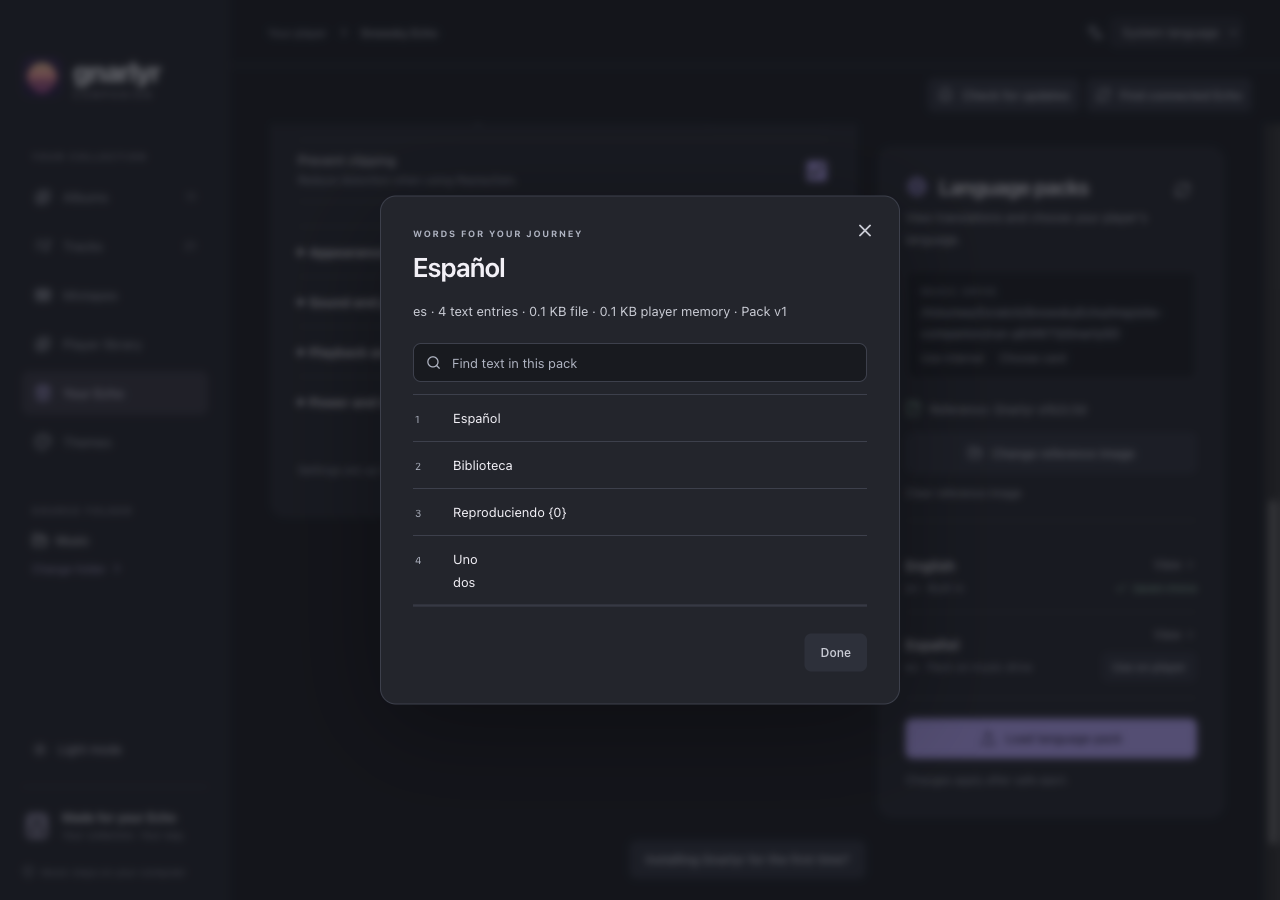
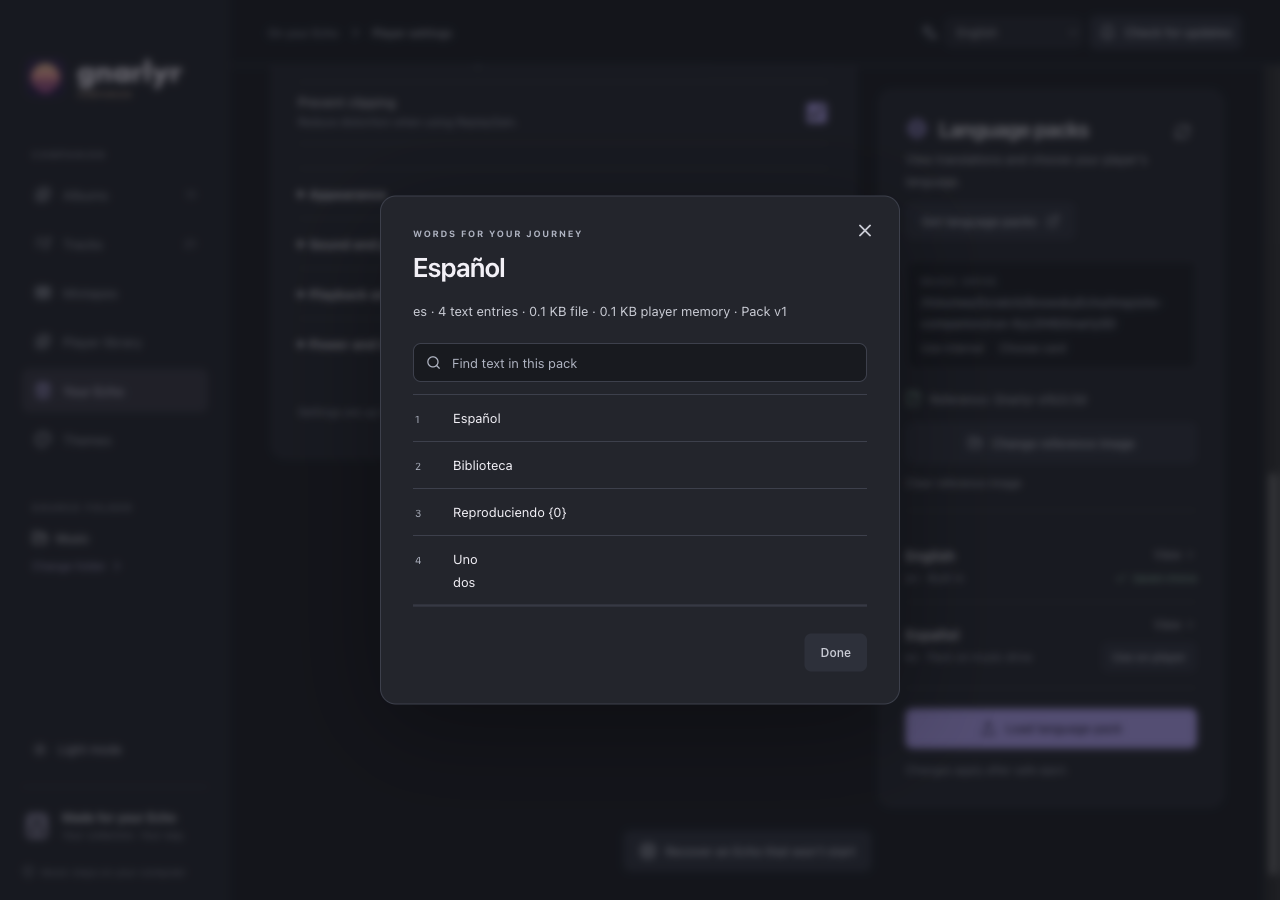
docs(site): refresh merged Companion layouts and language screenshots

diff --git a/site/companion.html b/site/companion.html
@@ -21,14 +21,14 @@
 <nav aria-label="Main navigation"><a href="firmware.html">Features</a><a href="docs.html">Docs</a><a href="hardware.html">Hardware</a><a href="companion.html" aria-current="page">Companion</a><a href="install.html" class="nav-cta">Install</a></nav>
 </header><main id="main"><section class="companion-hero wrap"><div class="page-intro"><p class="eyebrow">Gnarlyr Companion · desktop beta</p><h1 class="page-title">Your music.<br>A bigger view.</h1><p>Browse the albums on your computer, build a mixtape, and set up your ECHO.</p><div class="actions"><a class="button" href="#library">Explore the companion ↓</a><a class="text-link" href="#get">About the beta →</a></div><p class="companion-caption">Beta preview with sample music and a demonstration player.</p></div><figure class="desktop-figure"><a class="desktop-shot" href="assets/companion/library-dark.png" aria-label="Open Gnarlyr Companion album library in dark mode at full size"><img src="assets/companion/library-dark.png" width="1280" height="900" loading="eager" decoding="async" alt="Gnarlyr Companion album library in dark mode"></a><figcaption>Browse albums and keep a selection ready · select image to enlarge</figcaption></figure></section><div class="doc-layout wrap"><nav class="contents" aria-label="On this page"><p class="eyebrow">In the companion</p><ol><li><a href="#library">Music library</a></li><li><a href="#plan">Copy music</a></li><li><a href="#player-library">Player library</a></li><li><a href="#mixtapes">Mixtapes &amp; cassettes</a></li><li><a href="#player">Player care</a></li><li><a href="#first-install">First installation</a></li><li><a href="#updates">Release notices</a></li><li><a href="#recovery">Recovery</a></li><li><a href="#themes">Theme packs</a></li><li><a href="#app-language">App language</a></li><li><a href="#languages">Player language packs</a></li><li><a href="#appearance">Light &amp; dark</a></li><li><a href="#get">About the beta</a></li></ol></nav><div><section class="doc-section" id="library" aria-labelledby="library-title"><h2 id="library-title">Pick what comes with you.</h2><p class="intro">Choose a music folder and browse it as albums or tracks. Your files stay in their original folders.</p><div class="feature-list companion-features"><article class="feature"><h3>Find an album</h3><p>Search by album, artist, or song. Artwork comes from your music; albums without a cover get an initials design.</p></article><article class="feature"><h3>Keep a selection</h3><p>Choose individual albums or select your search results. Reopening restores your saved library and selections; Refresh checks for changed music.</p></article><article class="feature"><h3>Stay local</h3><p>Browse the music you own, offline. Review a copy to the player’s music drive, or use your computer’s file manager.</p></article></div></section>
 <section class="doc-section" id="library-scans" aria-labelledby="library-scans-title"><h2 id="library-scans-title">Come back to a ready library.</h2><p class="intro">The companion keeps a local catalogue so it can reopen your albums without reading every music file again.</p><p>Refresh scans in the background, shows progress, and reuses metadata for unchanged tracks. Cancel scan stops the refresh and leaves the previous library available. Your music folders stay unchanged.</p></section><section class="doc-section" id="plan" aria-labelledby="plan-title"><h2 id="plan-title">Review the music. Then copy it.</h2><p class="intro">Choose albums, select Review copy, and choose the destination music drive. The review shows missing tracks, files already there, conflicts, and the space needed.</p><figure class="desktop-figure"><a class="desktop-shot" href="assets/companion/sync-preview.png" aria-label="Open Gnarlyr Companion copy review listing selected tracks at full size"><img src="assets/companion/sync-preview.png" width="1280" height="900" loading="lazy" decoding="async" alt="Gnarlyr Companion copy review listing selected tracks"></a><figcaption>Review the selected music and required space · select image to enlarge</figcaption></figure><ul class="detail-list"><li><strong>See what is new.</strong> Review tracks to add, files already there, and the space needed.</li><li><strong>Spot conflicts.</strong> Changed files and conflicting destination paths appear in the plan.</li><li><strong>Copy and verify.</strong> Confirm the track count to copy missing files in the background. Each completed file is read back and checked. Existing files stay untouched.</li></ul><p>Cancel keeps completed, verified files. Choose Review copy again to finish the remaining tracks. A disconnected drive or changed selection needs a fresh review; conflicting files are left for you to resolve. Safely eject every player drive after copying.</p></section>
-<section class="doc-section" id="player-library" aria-labelledby="player-library-title"><h2 id="player-library-title">Prepare the player’s library.</h2><p class="intro">Prepare the music library and album covers on your computer, with no separate tools to install. In Player library, choose the microSD drive, select a preparation mode, and review the work.</p><figure class="desktop-figure"><a class="desktop-shot" href="assets/companion/player-library.png" aria-label="Open Companion player library preparation at full size"><img src="assets/companion/player-library.png" width="1280" height="900" loading="lazy" decoding="async" alt="Gnarlyr Companion with library and album-cover preparation modes"></a><figcaption>Choose what to prepare before reviewing changes · select image to enlarge</figcaption></figure><p>Choose Library and album covers, Library only, or Album covers only. The review lists tracks, playlists, missing artwork, metadata warnings, and required space. Confirm Prepare player library to write and verify the caches. Existing caches get a backup on your computer; music files and tags stay unchanged. Check scan status compares the music with the saved scan without writing.</p><p>When both drives belong to the same USB player, preparation includes internal music in the library on the card. The review shows the detected internal drive. You can also prepare a card in a reader; the player checks internal music when the card returns. Preparation writes to the card and leaves internal storage unchanged.</p><p>After a music copy, Prepare player library opens this screen with that destination selected. Review again before preparing, keep the drive connected until the operation finishes, and safely eject every player drive.</p></section>
+<section class="doc-section" id="player-library" aria-labelledby="player-library-title"><h2 id="player-library-title">Prepare the player’s library.</h2><p class="intro">Prepare the music library and album covers on your computer, with no separate tools to install. In Player library, choose the microSD drive, select a preparation mode, and review the work.</p><figure class="desktop-figure"><a class="desktop-shot" href="assets/companion/player-library.png" aria-label="Open Companion player library preparation at full size"><img src="assets/companion/player-library.png" width="1280" height="900" loading="lazy" decoding="async" alt="Gnarlyr Companion with library and album-cover preparation modes"></a><figcaption>Choose what to prepare before reviewing changes · select image to enlarge</figcaption></figure><p>Choose Library and album covers, Library only, or Album covers only. The review shows the cache files and required space before saving. The scan summary lists tracks, playlists, missing artwork, and metadata warnings. Confirm Prepare player library to write and verify the caches. Existing caches get a backup on your computer; music files and tags stay unchanged. Check scan status compares the music with the saved scan without writing.</p><figure class="desktop-figure"><a class="desktop-shot" href="assets/companion/player-library-review.png" aria-label="Open the Companion preparation review at full size"><img src="assets/companion/player-library-review.png" width="1280" height="900" loading="lazy" decoding="async" alt="Gnarlyr Companion reviewing the library cache, album covers, and required space before saving"></a><figcaption>Review the selected drive and planned work before saving</figcaption></figure><p>When both drives belong to the same USB player, preparation includes internal music in the library on the card. The review shows the detected internal drive. You can also prepare a card in a reader; the player checks internal music when the card returns. Preparation writes to the card and leaves internal storage unchanged.</p><p>After a music copy, Prepare player library opens this screen with that destination selected. Review again before preparing, keep the drive connected until the operation finishes, and safely eject every player drive.</p></section>
 <section class="doc-section" id="mixtapes" aria-labelledby="mixtapes-title"><h2 id="mixtapes-title">Make a mix. Give it two sides.</h2><p class="intro">Create an ordered mixtape or a C60/C90 cassette from songs already on your player’s music drive. Keep repeated songs, reorder the sequence, and move tracks between sides.</p><figure class="desktop-figure"><a class="desktop-shot" href="assets/companion/mixtapes.png" aria-label="Open the companion mixtape editor at full size"><img src="assets/companion/mixtapes.png" width="1280" height="900" loading="lazy" decoding="async" alt="Gnarlyr Companion editing a C90 cassette with separate side budgets"></a><figcaption>Build your sequence and check each side’s running time · select image to enlarge</figcaption></figure><ol class="sequence"><li><strong>Choose your music drive.</strong> Open Mixtapes and select the microSD card, or internal storage if that is where your music lives. Copy songs there first with Review copy.</li><li><strong>Build the sequence.</strong> Choose New mixtape, name it, and add songs from your library. A C60 allows 30 minutes per side; a C90 allows 45. Each side holds up to 64 tracks.</li><li><strong>Review and save.</strong> Check the changes before writing. The companion backs up the previous mix on your computer and verifies the saved files. Safely eject every player drive before opening the mix on the ECHO.</li></ol><p>Keep up to 32 saved mixes. Rename or delete a mix without removing its music. Cassette saves check each side’s time against the files on the drive; missing songs or unknown durations need resolving first.</p></section>
 <section class="doc-section" id="player" aria-labelledby="player-title"><h2 id="player-title">A little care for your ECHO.</h2><p class="intro">For a player already running Gnarlyr, connect in Connect to computer mode and choose its internal drive in Your Echo.</p><figure class="desktop-figure"><a class="desktop-shot" href="assets/companion/player-settings.png" aria-label="Open Gnarlyr Companion player settings including display and sound controls at full size"><img src="assets/companion/player-settings.png" width="1280" height="900" loading="lazy" decoding="async" alt="Gnarlyr Companion player settings including display and sound controls"></a><figcaption>Review the player’s saved settings · select image to enlarge</figcaption></figure><p>Choose the theme, accent color, text size, orientation, and any of the four Now Playing styles. Adjust EQ, ReplayGain, crossfeed, playback speed, shuffle, repeat, and saved volume levels. Set USB behavior, standby, resume rewind, startup volume limits, and the start/stop animation. The form shows the controls supported by the player’s saved settings. Review changes before saving; the companion keeps a computer backup and verifies the saved file. Safely eject every player drive to apply the changes.</p><p>If a drive disconnects, reconnect it and refresh the player. Compatible draft edits stay in place; fields unavailable in the refreshed settings are removed from the draft. The review uses the same setting labels as the form.</p><h3>Review a firmware file</h3><p>Choose a trusted local Gnarlyr image. The companion checks its format and checksum, shows the version and build, and can copy it to internal storage with a readback check. The player installs it after safe eject.</p><figure class="desktop-figure"><a class="desktop-shot" href="assets/companion/firmware-review.png" aria-label="Open Gnarlyr Companion reviewing a demonstration firmware image at full size"><img src="assets/companion/firmware-review.png" width="1280" height="900" loading="lazy" decoding="async" alt="Gnarlyr Companion reviewing a demonstration firmware image"></a><figcaption>Review a firmware image before loading it · select image to enlarge</figcaption></figure><p>For later updates, choose the downloaded <code>ECHOECHO.img</code>; the companion checks its contents and stages the file for Gnarlyr’s updater. Follow the <a href="install.html#update">update and confirmation steps</a> after copying.</p></section>
-<section class="doc-section" id="first-install" aria-labelledby="first-install-title"><h2 id="first-install-title">Start from stock, too.</h2><p class="intro">The companion detects a mounted full-size ECHO running FiiO firmware and offers to set it up. Find connected Echo checks again; Your Echo → Installing Gnarlyr for the first time? opens setup directly.</p><figure class="desktop-figure"><a class="desktop-shot" href="assets/companion/first-install.png" aria-label="Open companion first-install preparation at full size"><img src="assets/companion/first-install.png" width="1280" height="900" loading="lazy" decoding="async" alt="Gnarlyr Companion first-install preparation for a stock full-size ECHO"></a><figcaption>Prepare the firmware copy before restarting the player · select image to enlarge</figcaption></figure><p>Charge the player, back up its internal files, and connect it in USB storage mode. Choose a trusted <code>ECHOECHO.img</code> and review the detected player. On macOS, the app makes a contiguous copy, verifies it before and after remounting, and ejects the player’s drives.</p><p>Windows and Linux offer a beta copy-and-verify path; safely eject the internal drive and card yourself. They do not perform macOS’s contiguous-allocation and remount checks. After ejection, unplug USB and fully power off/on. Let installation and the first library scan finish, then check Settings → About. The <a href="install.html#first-install">normal file-copy route</a> is also available.</p></section>
-<section class="doc-section" id="updates" aria-labelledby="updates-title"><h2 id="updates-title">Know when a release is ready.</h2><p>The companion checks the official GitHub releases at startup. Check for updates runs another check. A newer app gets an update notice; a firmware release gets a link to its notes so you can compare it with Settings → About on the ECHO.</p><p>Dismiss a notice until the next release, or check again to bring it back. Downloads and installation stay under your control. Local music and player tools remain available offline.</p><figure class="desktop-figure"><a class="desktop-shot" href="assets/companion/setup-notice.png" aria-label="Open companion player detection and update controls at full size"><img src="assets/companion/setup-notice.png" width="1280" height="900" loading="lazy" decoding="async" alt="Gnarlyr Companion detecting a demonstration stock ECHO beside the update controls"></a><figcaption>Player detection and release checks · demonstration player</figcaption></figure></section>
+<section class="doc-section" id="first-install" aria-labelledby="first-install-title"><h2 id="first-install-title">Start from stock, too.</h2><p class="intro">Open Your Echo → Installing Gnarlyr for the first time? to prepare a stock full-size ECHO. Choose your firmware image, then review the detected player before copying.</p><figure class="desktop-figure"><a class="desktop-shot" href="assets/companion/first-install.png" aria-label="Open companion first-install preparation at full size"><img src="assets/companion/first-install.png" width="1280" height="900" loading="lazy" decoding="async" alt="Gnarlyr Companion first-install preparation for a stock full-size ECHO"></a><figcaption>Prepare the firmware copy before restarting the player · select image to enlarge</figcaption></figure><p>Charge the player, back up its internal files, and connect it in USB storage mode. Choose a trusted <code>ECHOECHO.img</code> and review the detected player. On macOS, the app makes a contiguous copy, verifies it before and after remounting, and ejects the player’s drives.</p><p>Windows and Linux offer a beta copy-and-verify path; safely eject the internal drive and card yourself. They do not perform macOS’s contiguous-allocation and remount checks. After ejection, unplug USB and fully power off/on. Let installation and the first library scan finish, then check Settings → About. The <a href="install.html#first-install">normal file-copy route</a> is also available.</p></section>
+<section class="doc-section" id="updates" aria-labelledby="updates-title"><h2 id="updates-title">Know when a release is ready.</h2><p>The companion checks the official GitHub releases at startup. Check for updates runs another check. A newer app gets an update notice; a firmware release gets a link to its notes so you can compare it with Settings → About on the ECHO.</p><p>Dismiss a notice until the next release, or check again to bring it back. Downloads and installation stay under your control. Local music and player tools remain available offline.</p></section>
 <section class="doc-section" id="recovery" aria-labelledby="recovery-title"><h2 id="recovery-title">A recovery route when the player won’t start.</h2><p>Open Your Echo → Recover an Echo that won’t start. Choose a trusted ECHO-patched <code>rkdeveloptool</code>, a Gnarlyr image or the supported official FiiO 2.0.0 image, and a backup folder on your computer.</p><figure class="desktop-figure"><a class="desktop-shot" href="assets/companion/recovery.png" aria-label="Open companion recovery preparation at full size"><img src="assets/companion/recovery.png" width="1280" height="900" loading="lazy" decoding="async" alt="Gnarlyr Companion showing full-size ECHO recovery preparation"></a><figcaption>Review the recovery files before writing · sample player folders</figcaption></figure><p>After you confirm the full-size model and trusted tool, the app reads both firmware slots twice into a private backup and compares them. It writes slot 2 and verifies the readback, then does the same for slot 1. Both must match before it sends a restart.</p><p>Keep at least 320 MiB free for retained backups and readbacks. The recovery executable and any USB drivers must be installed separately; Windows needs WinUSB for the maskrom device. Recovery remains experimental on Linux and Windows. Follow the <a href="recovery.html">full-size ECHO recovery guide</a> for the button sequence and exact tool requirements.</p><details><summary>If a recovery session was interrupted</summary><div class="answer"><p>An interrupted-session message means a recovery process may still be active. Keep the backup. Close all recovery apps and tools, then restart the computer. Disconnect the player, press RST, and enter maskrom again.</p><p>Remove only the session-lock file named in the message, then review a fresh recovery attempt. Never remove that file while recovery is running.</p></div></details></section>
 <section class="doc-section" id="themes" aria-labelledby="themes-title"><h2 id="themes-title">Give your ECHO a new look.</h2><p class="intro">Open a .gtheme file to see its palette and artwork, or choose Build from source to turn a local theme folder into a pack. Building and previews work offline, with no player connected.</p><figure class="desktop-figure"><a class="desktop-shot" href="assets/companion/themes.png" aria-label="Open Companion theme-pack preview at full size"><img src="assets/companion/themes.png" width="1280" height="900" loading="lazy" decoding="async" alt="Gnarlyr Companion previewing Pocket Scope’s palette and player artwork"></a><figcaption>Preview the pack’s colors and artwork · select image to enlarge</figcaption></figure><p>For installation, choose the internal drive, the active music drive, and the exact firmware image installed on the ECHO. The app checks support before offering changes, verifies installed files, and keeps a copy on your computer. Removal is limited to packs installed and recorded by Companion.</p><p>For current firmware, build version 2 packs with the <a href="build.html#theme-tools">current firmware’s theme tools</a>. Companion’s bundled theme builder and previews currently use version 1.</p><p>After safe eject, choose the active pack in Settings → Theme on the player. The <a href="docs.html#theme-packs">theme-pack guide</a> explains player previews and fallback artwork.</p></section>
-<section class="doc-section" id="app-language" aria-labelledby="app-language-title"><h2 id="app-language-title">Use the app in your language.</h2><p class="intro">Choose from 13 built-in interface languages, available offline.</p><p>The app follows your computer’s first supported language, with English as the fallback. Choose <strong>App language</strong> in the top bar to switch immediately. Your choice is saved for the next time you open the app.</p><p>Included languages are Afrikaans, Arabic, Bengali, Brazilian Portuguese, English, French, German, Hindi, Japanese, Russian, Simplified Chinese, Spanish, and Ukrainian. Text without a translation appears in English.</p><p>This changes the desktop interface. Use the player language controls below to change the language on your ECHO.</p></section>
+<section class="doc-section" id="app-language" aria-labelledby="app-language-title"><h2 id="app-language-title">Use the app in your language.</h2><p class="intro">Choose from 13 built-in interface languages, available offline.</p><p>The app follows your computer’s first supported language, with English as the fallback. Choose <strong>App language</strong> in the top bar to switch immediately. Your choice is saved for the next time you open the app.</p><p>Included languages are Afrikaans, Arabic, Bengali, Brazilian Portuguese, English, French, German, Hindi, Japanese, Russian, Simplified Chinese, Spanish, and Ukrainian. Text without a translation appears in English.</p><figure class="desktop-figure"><a class="desktop-shot" href="assets/companion/app-language.png" aria-label="Open Gnarlyr Companion in Spanish at full size"><img src="assets/companion/app-language.png" width="1280" height="900" loading="lazy" decoding="async" alt="Gnarlyr Companion album library in Spanish, with Priceless 2023 artwork"></a><figcaption>Spanish interface · the same local music library</figcaption></figure><p>This changes the desktop interface. Use the player language controls below to change the language on your ECHO.</p></section>
 <section class="doc-section" id="languages" aria-labelledby="languages-title"><h2 id="languages-title">Choose the player’s language.</h2><p class="intro">View translated text, check a language pack, and choose which language the player uses.</p><figure class="desktop-figure"><a class="desktop-shot" href="assets/companion/languages.png" aria-label="Open Gnarlyr Companion previewing a Spanish language pack at full size"><img src="assets/companion/languages.png" width="1280" height="900" loading="lazy" decoding="async" alt="Gnarlyr Companion previewing a Spanish language pack"></a><figcaption>Preview translated text before choosing a language · select image to enlarge</figcaption></figure><ol class="sequence"><li><strong>Choose the music drive.</strong> Select the inserted microSD card, or internal storage when you use no card.</li><li><strong>Match the firmware.</strong> Choose the local image currently installed on your ECHO so packs can be checked against its catalogue.</li><li><strong>Review and apply.</strong> Preview translations, load a checked pack, or save a language choice. Choose Firmware default to use the image’s default language. Eject every player drive to apply the change.</li></ol><p>Unavailable language controls explain which drive or firmware image to select first.</p><p>To make a pack, use the <a href="languages.html">browser language-pack builder</a> and copy the downloaded file over USB. The desktop app imports version 1 packs, the format this firmware reads.</p></section>
 <section class="doc-section" id="appearance" aria-labelledby="appearance-title"><h2 id="appearance-title">At home on your desktop.</h2><p class="intro">Choose light or dark mode. The companion remembers the appearance you prefer, and a wireframe ECHO opens and closes the app.</p><figure class="desktop-figure"><a class="desktop-shot" href="assets/companion/library-light.png" aria-label="Open Gnarlyr Companion album library in light mode at full size"><img src="assets/companion/library-light.png" width="1280" height="900" loading="lazy" decoding="async" alt="Gnarlyr Companion album library in light mode"></a><figcaption>The same library in light mode · select image to enlarge</figcaption></figure></section>
 <section class="doc-section" id="get" aria-labelledby="get-title"><h2 id="get-title">Meet the beta.</h2><p class="intro">The companion is being prepared for public downloads. Installers and release notes will appear on the <a href="https://github.com/0xdoublesharp/gnarlyr/releases">public Gnarlyr releases page</a>.</p><p>This page shows the beta’s current interface and features. Download links will appear here when the installers are ready.</p><div class="route-links"><a class="text-link" href="docs.html">Explore the player guide →</a><a class="text-link" href="install.html">Install Gnarlyr firmware →</a></div></section></div></div></main><footer class="wrap">

diff --git a/site/README.md b/site/README.md
@@ -172,7 +172,7 @@ node tools/site_companion_screenshots.mjs --source-root /path/to/gnarlyr-compani
 
 Without `--source-root`, the script uses `../gnarlyr-companion` beside this checkout.
 
-Requires Node 24+, ffmpeg and the companion’s installed dependencies. `tools/site_companion_screenshots.json` configures the viewport and twelve captured views. The script rebuilds the app, launches its actual Electron interface with isolated Scratch user data, drives the GUI and confirms that sync preview changes no files, settings stay unchanged and no firmware is staged. All twelve views render before public images are replaced. `--no-build` explicitly reuses an existing build; `--config` selects a different capture configuration. Dependencies come from the companion checkout’s existing installation. Source for the published captures is companion commit `ea14665`, including the local UI and language changes present during capture. The header uses the Sunset Disc, and the Themes fixture is built with the app’s hash-pinned theme tooling.
+Requires Node 24+, ffmpeg and the companion’s installed dependencies. `tools/site_companion_screenshots.json` configures the viewport and thirteen captured views. The script rebuilds the app, launches its actual Electron interface with isolated Scratch user data, drives the GUI and confirms that sync preview changes no files, settings stay unchanged and no firmware is staged. All thirteen views render before public images are replaced. `--no-build` explicitly reuses an existing build; `--config` selects a different capture configuration. Dependencies come from the companion checkout’s existing installation. The capture checks for its estimated 1 GiB of working space before building and while creating sample albums; normal runs also follow the shared resource preflight. Source for the published captures is merged Companion main `dc1b930`. The scenes include a Spanish interface and the player-library preparation review; the removed global player-detection prompt has no capture. The header uses the Sunset Disc, and the Themes fixture is built with the app’s hash-pinned theme tooling.
 
 The desktop app’s source is in the private `gnarlyr-desktop` repository, usually checked out as `../gnarlyr-companion`. The owner selected a separate public GitHub releases-only repository for future installers and release notes, now at https://github.com/0xdoublesharp/gnarlyr/releases. Add real, versioned installer links when packages are ready; the current page is a beta preview. The companion’s distribution terms remain separate from the firmware’s GPL license. Music copying reviews the missing files, preserves existing files and verifies each completed copy. Cancellation keeps verified files; copying does not build the playback database or eject the drives. Native mixtapes, C60/C90 cassette editing, stock-player detection, release notices, reviewed recovery, and bundled library preparation are included. Companion main `589d722` also bundles 13 offline interface-language choices, follows the first supported system language, and saves manual choices immediately. Untranslated text uses English; app language and player language are separate. Firmware-default language selection follows the reference image rather than assuming it contains English. The bundled engine uses library and scan format 2, includes verified internal input in the library written to the card, and supports theme-pack building and previews. Theme installation and removal depend on a confirmed supported installed image. Current firmware needs theme format 2; the unchanged Companion builder still targets format 1, so the public guide points current-firmware users to the source theme tools. Automatic sync, standard M3U import/export, and metadata editing remain outside the public claims.
 

diff --git a/docs/deployment.md b/docs/deployment.md
@@ -19,8 +19,8 @@ regenerate them with `tools/site_screenshots.py` before publishing interface cha
 | Primary URL | https://gnarlyr.com; www redirects to the apex |
 | Secondary validation URL | https://gnarlyr.apps.doublesharp.com |
 | Origin address | `159.89.222.183` |
[4 lines of base64/hex data omitted]
 
 The rollback retains the previous Priceless screenshot release.
 
